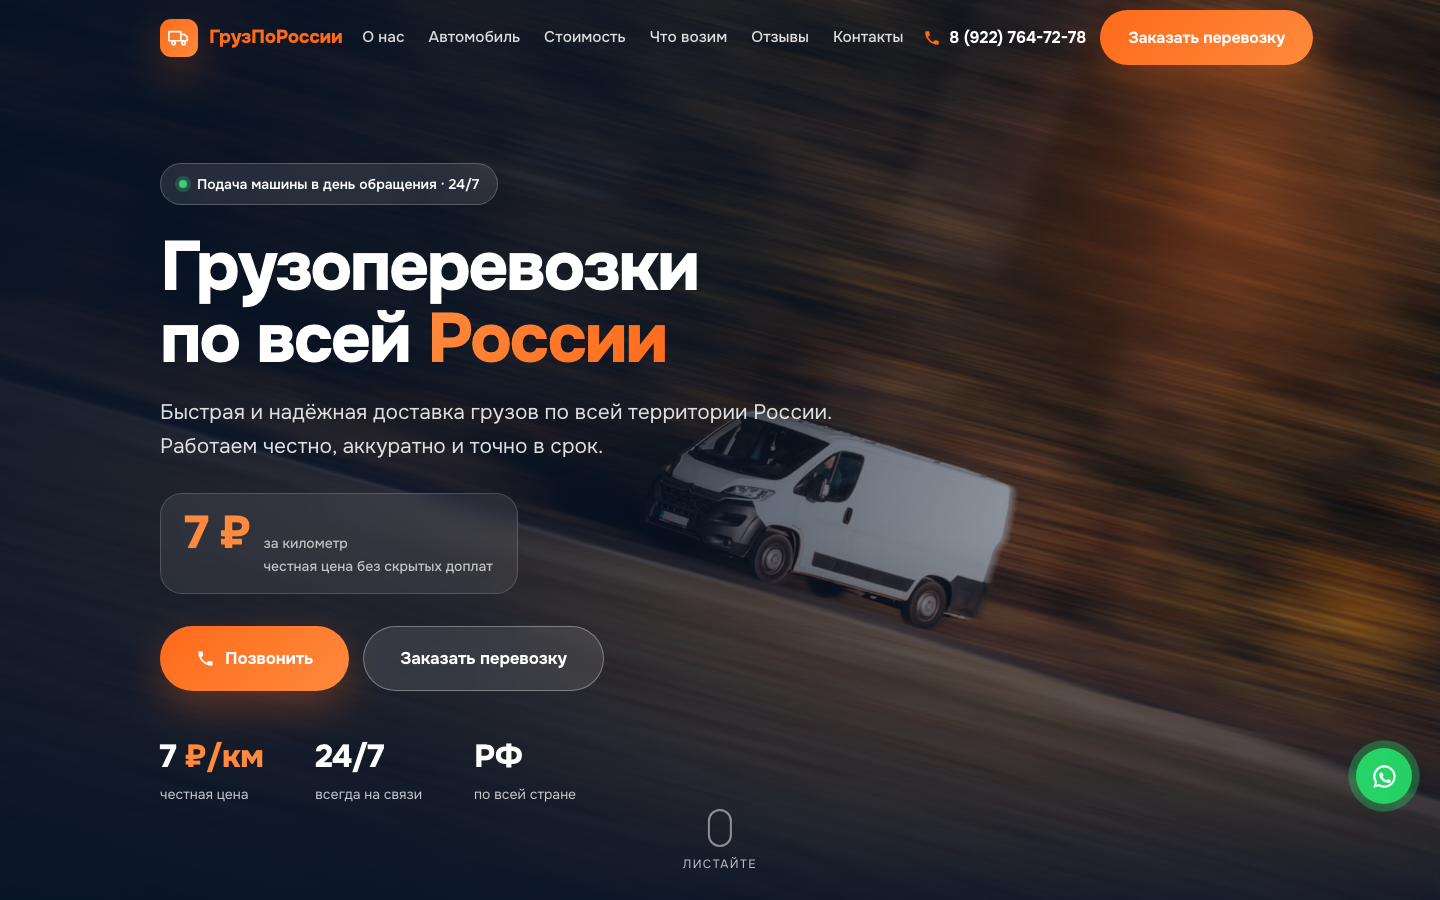
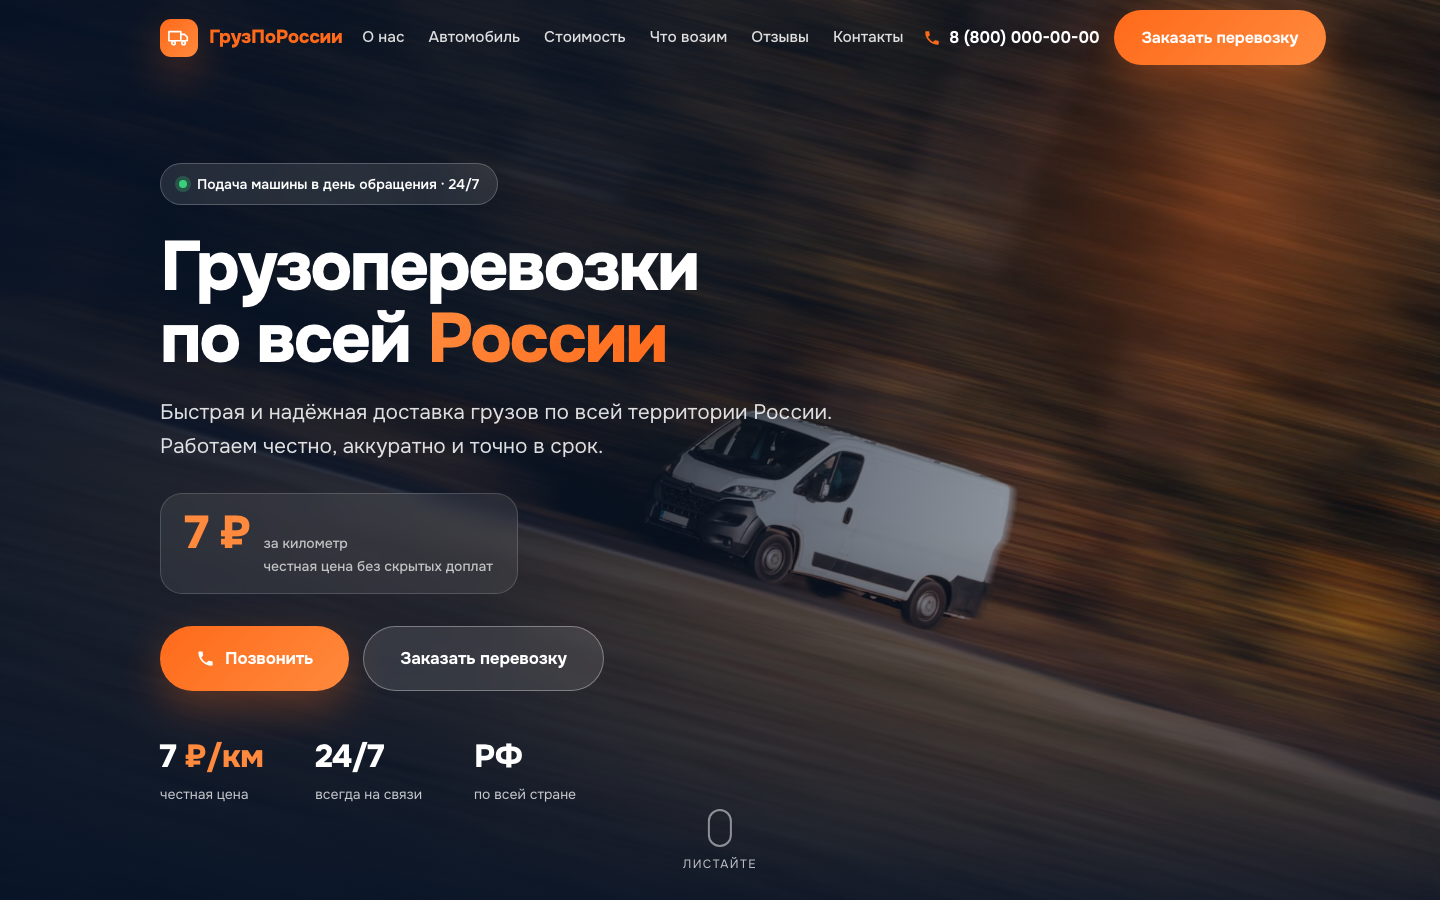
Лендинг #11: анонимизация для портфолио
- Телефон заменён на нейтральный плейсхолдер 8 (800) 000-00-00 (везде + JSON-LD/OG)
- Убраны все переходы в WhatsApp (кнопка в контактах, плавающая кнопка, ссылка в футере) и Telegram
- Убраны имена водителей (Асхаб/Мухаммад) → «Опытный водитель» / «Водитель-дальнобойщик», аватары с иконкой вместо инициалов; имя водителя убрано и из отзыва
- Обновлены обложка и скриншоты

Changed region(s): [[0.6562, 0.0, 0.9375, 0.0622], [0.9375, 0.8089, 1.0, 0.9022]]

diff --git a/landings/11-logistic/index.html b/landings/11-logistic/index.html
@@ -17,12 +17,12 @@
 <meta property="og:locale" content="ru_RU">
 <meta property="og:site_name" content="ГрузПоРоссии">
 <meta property="og:title" content="Грузоперевозки по всей России — от 7 ₽/км">
-<meta property="og:description" content="Быстрая и надёжная доставка грузов по всей территории России. Честная цена от 7 ₽/км, подача в день обращения. Тел. 8 (922) 764-72-78.">
+<meta property="og:description" content="Быстрая и надёжная доставка грузов по всей территории России. Честная цена от 7 ₽/км, подача в день обращения. Тел. 8 (800) 000-00-00.">
 <meta property="og:url" content="https://jonessssenator-art.github.io/portfolio/landings/11-logistic/">
 <meta property="og:image" content="https://jonessssenator-art.github.io/portfolio/screenshots/11-logistic-cover.png">
 <meta name="twitter:card" content="summary_large_image">
 <meta name="twitter:title" content="Грузоперевозки по всей России — от 7 ₽/км">
-<meta name="twitter:description" content="Быстрая и надёжная доставка грузов по всей России. Честная цена от 7 ₽/км. Тел. 8 (922) 764-72-78.">
+<meta name="twitter:description" content="Быстрая и надёжная доставка грузов по всей России. Честная цена от 7 ₽/км. Тел. 8 (800) 000-00-00.">
 <meta name="twitter:image" content="https://jonessssenator-art.github.io/portfolio/screenshots/11-logistic-cover.png">
 
 <link rel="icon" href="favicon/favicon.svg" type="image/svg+xml">
@@ -43,7 +43,7 @@
   "@id":"https://jonessssenator-art.github.io/portfolio/landings/11-logistic/#business",
   "name":"ГрузПоРоссии",
   "description":"Грузоперевозки по всей России от 7 ₽ за километр. Быстрая и надёжная доставка грузов.",
-  "telephone":"+7-922-764-72-78",
+  "telephone":"+7-800-000-00-00",
   "url":"https://jonessssenator-art.github.io/portfolio/landings/11-logistic/",
   "image":"https://jonessssenator-art.github.io/portfolio/screenshots/11-logistic-cover.png",
   "areaServed":{"@type":"Country","name":"Россия"},
@@ -75,9 +75,9 @@
     </nav>
 
     <div class="header__cta">
-      <a href="tel:+79227647278" class="header__phone">
+      <a href="tel:+78000000000" class="header__phone">
         <svg viewBox="0 0 24 24" fill="none"><path d="M6.6 10.8a15 15 0 0 0 6.6 6.6l2.2-2.2a1 1 0 0 1 1-.24 11.4 11.4 0 0 0 3.6.58 1 1 0 0 1 1 1V20a1 1 0 0 1-1 1A17 17 0 0 1 3 4a1 1 0 0 1 1-1h3.5a1 1 0 0 1 1 1c0 1.25.2 2.46.58 3.6a1 1 0 0 1-.25 1z" fill="currentColor"/></svg>
-        8 (922) 764-72-78
+        8 (800) 000-00-00
       </a>
       <a href="#contacts" class="btn btn--primary">Заказать перевозку</a>
       <button class="burger" id="burger" aria-label="Открыть меню" aria-expanded="false" aria-controls="mobileNav">
@@ -102,7 +102,7 @@
   <a href="#drivers" class="m-link">Водители</a>
   <a href="#reviews" class="m-link">Отзывы</a>
   <a href="#contacts" class="m-link">Контакты</a>
-  <a href="tel:+79227647278" class="btn btn--primary btn--block">Позвонить: 8 (922) 764-72-78</a>
+  <a href="tel:+78000000000" class="btn btn--primary btn--block">Позвонить: 8 (800) 000-00-00</a>
 </nav>
 
 <main id="top">
@@ -125,7 +125,7 @@
       </div>
 
       <div class="hero__actions">
-        <a href="tel:+79227647278" class="btn btn--primary btn--lg">
+        <a href="tel:+78000000000" class="btn btn--primary btn--lg">
           <svg viewBox="0 0 24 24" fill="none"><path d="M6.6 10.8a15 15 0 0 0 6.6 6.6l2.2-2.2a1 1 0 0 1 1-.24 11.4 11.4 0 0 0 3.6.58 1 1 0 0 1 1 1V20a1 1 0 0 1-1 1A17 17 0 0 1 3 4a1 1 0 0 1 1-1h3.5a1 1 0 0 1 1 1c0 1.25.2 2.46.58 3.6a1 1 0 0 1-.25 1z" fill="currentColor"/></svg>
           Позвонить
         </a>
@@ -427,12 +427,11 @@
 
     <div class="drivers-grid">
       <div class="driver reveal">
-        <div class="driver__ava">А
+        <div class="driver__ava"><svg class="ava-ic" viewBox="0 0 24 24" fill="none" aria-hidden="true"><circle cx="12" cy="9" r="3.4" stroke="currentColor" stroke-width="1.8"/><path d="M5.5 19.5a6.5 6.5 0 0 1 13 0" stroke="currentColor" stroke-width="1.8" stroke-linecap="round"/></svg>
           <span class="wheel" aria-hidden="true"><svg viewBox="0 0 24 24" fill="none"><circle cx="12" cy="12" r="9" stroke="currentColor" stroke-width="2"/><circle cx="12" cy="12" r="2.4" fill="currentColor"/><path d="M12 3v6M21 12h-6M5 18l4.5-4.5" stroke="currentColor" stroke-width="1.6"/></svg></span>
         </div>
         <div>
-          <div class="driver__name">Асхаб</div>
-          <span class="driver__role">Опытный водитель</span>
+          <div class="driver__name">Опытный водитель</div>
           <div class="driver__traits">
             <span><svg viewBox="0 0 24 24" fill="none"><path d="m5 13 4 4L19 7" stroke="currentColor" stroke-width="2.4" stroke-linecap="round" stroke-linejoin="round"/></svg> Ответственный</span>
             <span><svg viewBox="0 0 24 24" fill="none"><path d="m5 13 4 4L19 7" stroke="currentColor" stroke-width="2.4" stroke-linecap="round" stroke-linejoin="round"/></svg> Пунктуальный</span>
@@ -442,12 +441,11 @@
       </div>
 
       <div class="driver reveal d1">
-        <div class="driver__ava">М
+        <div class="driver__ava"><svg class="ava-ic" viewBox="0 0 24 24" fill="none" aria-hidden="true"><circle cx="12" cy="9" r="3.4" stroke="currentColor" stroke-width="1.8"/><path d="M5.5 19.5a6.5 6.5 0 0 1 13 0" stroke="currentColor" stroke-width="1.8" stroke-linecap="round"/></svg>
           <span class="wheel" aria-hidden="true"><svg viewBox="0 0 24 24" fill="none"><circle cx="12" cy="12" r="9" stroke="currentColor" stroke-width="2"/><circle cx="12" cy="12" r="2.4" fill="currentColor"/><path d="M12 3v6M21 12h-6M5 18l4.5-4.5" stroke="currentColor" stroke-width="1.6"/></svg></span>
         </div>
         <div>
-          <div class="driver__name">Мухаммад</div>
-          <span class="driver__role">Междугородние перевозки</span>
+          <div class="driver__name">Водитель-дальнобойщик</div>
           <div class="driver__traits">
             <span><svg viewBox="0 0 24 24" fill="none"><path d="m5 13 4 4L19 7" stroke="currentColor" stroke-width="2.4" stroke-linecap="round" stroke-linejoin="round"/></svg> Надёжность</span>
             <span><svg viewBox="0 0 24 24" fill="none"><path d="m5 13 4 4L19 7" stroke="currentColor" stroke-width="2.4" stroke-linecap="round" stroke-linejoin="round"/></svg> Безопасность</span>
@@ -534,7 +532,7 @@
           <svg viewBox="0 0 24 24" fill="currentColor"><path d="m12 2 3 6.3 6.9.9-5 4.8 1.2 6.8L12 17.8 5.9 20.8 7.1 14 2.1 9.2 9 8.3z"/></svg>
           <svg viewBox="0 0 24 24" fill="currentColor"><path d="m12 2 3 6.3 6.9.9-5 4.8 1.2 6.8L12 17.8 5.9 20.8 7.1 14 2.1 9.2 9 8.3z"/></svg>
         </div>
-        <blockquote class="review__text">Регулярно заказываю доставку овощей и фруктов в магазин. Привозят строго в срок, груз всегда в идеальном состоянии. Водитель Асхаб — большой молодец.</blockquote>
+        <blockquote class="review__text">Регулярно заказываю доставку овощей и фруктов в магазин. Привозят строго в срок, груз всегда в идеальном состоянии. Наш водитель — большой молодец.</blockquote>
         <figcaption class="review__author"><span class="review__ava">Р</span><span><span class="nm">Руслан</span><br><span class="mt">поставки продуктов</span></span></figcaption>
       </figure>
 
@@ -561,26 +559,18 @@
       <div class="contact-info reveal">
         <span class="eyebrow">Контакты</span>
         <h2 class="h-section">Закажите перевозку прямо сейчас</h2>
-        <p class="lead">Позвоните или напишите — рассчитаем стоимость и подадим машину в удобное время.</p>
+        <p class="lead">Позвоните или оставьте заявку — рассчитаем стоимость и подадим машину в удобное время.</p>
 
         <div class="phone-big">
           <span class="ic" aria-hidden="true"><svg viewBox="0 0 24 24" fill="none"><path d="M6.6 10.8a15 15 0 0 0 6.6 6.6l2.2-2.2a1 1 0 0 1 1-.24 11.4 11.4 0 0 0 3.6.58 1 1 0 0 1 1 1V20a1 1 0 0 1-1 1A17 17 0 0 1 3 4a1 1 0 0 1 1-1h3.5a1 1 0 0 1 1 1c0 1.25.2 2.46.58 3.6a1 1 0 0 1-.25 1z" fill="currentColor"/></svg></span>
-          <a href="tel:+79227647278">8 (922) 764-72-78</a>
+          <a href="tel:+78000000000">8 (800) 000-00-00</a>
         </div>
         <p class="phone-cap">Работаем ежедневно, принимаем заявки 24/7</p>
 
         <div class="contact-channels">
-          <a href="tel:+79227647278" class="chan chan--call">
+          <a href="tel:+78000000000" class="chan chan--call">
             <svg viewBox="0 0 24 24" fill="none"><path d="M6.6 10.8a15 15 0 0 0 6.6 6.6l2.2-2.2a1 1 0 0 1 1-.24 11.4 11.4 0 0 0 3.6.58 1 1 0 0 1 1 1V20a1 1 0 0 1-1 1A17 17 0 0 1 3 4a1 1 0 0 1 1-1h3.5a1 1 0 0 1 1 1c0 1.25.2 2.46.58 3.6a1 1 0 0 1-.25 1z" fill="currentColor"/></svg>
             Позвонить
-          </a>
-          <a href="https://wa.me/79227647278?text=Здравствуйте!%20Хочу%20заказать%20грузоперевозку" class="chan chan--wa" target="_blank" rel="noopener">
-            <svg viewBox="0 0 24 24" fill="currentColor"><path d="M12 2a10 10 0 0 0-8.5 15.3L2 22l4.8-1.4A10 10 0 1 0 12 2zm0 2a8 8 0 1 1-4.2 14.8l-.3-.2-2.8.8.8-2.7-.2-.3A8 8 0 0 1 12 4zm-3 4.4c-.2 0-.5.1-.7.3-.3.3-.9.9-.9 2.1s.9 2.4 1 2.6c.1.2 1.7 2.8 4.3 3.8 2.1.8 2.6.7 3 .6.5-.1 1.5-.6 1.7-1.2.2-.6.2-1.1.1-1.2 0-.1-.2-.2-.5-.3l-1.6-.8c-.2-.1-.4-.1-.5.1l-.7.9c-.1.2-.3.2-.5.1-.3-.1-1.1-.4-2-1.3-.7-.6-1.2-1.4-1.3-1.6-.1-.2 0-.4.1-.5l.4-.5c.1-.1.2-.3.2-.4.1-.2 0-.3 0-.4l-.7-1.7c-.2-.5-.4-.4-.5-.4z"/></svg>
-            WhatsApp
-          </a>
-          <a href="tg://resolve?phone=79227647278" class="chan chan--tg" target="_blank" rel="noopener">
-            <svg viewBox="0 0 24 24" fill="currentColor"><path d="M21.9 4.3 18.6 20c-.2 1-.9 1.3-1.8.8l-4.8-3.6-2.3 2.2c-.3.3-.5.5-1 .5l.3-4.9 8.9-8c.4-.3-.1-.5-.6-.2L6.3 13.6l-4.7-1.5c-1-.3-1-1 .2-1.5L20.6 3c.9-.3 1.6.2 1.3 1.3z"/></svg>
-            Telegram
           </a>
         </div>
 
@@ -646,9 +636,9 @@
         <h3>Нужна перевозка? Звоните прямо сейчас</h3>
         <p>Рассчитаем стоимость и подадим машину в удобное время — по всей России.</p>
       </div>
-      <a href="tel:+79227647278" class="btn btn--primary btn--lg">
+      <a href="tel:+78000000000" class="btn btn--primary btn--lg">
         <svg viewBox="0 0 24 24" fill="none" aria-hidden="true"><path d="M6.6 10.8a15 15 0 0 0 6.6 6.6l2.2-2.2a1 1 0 0 1 1-.24 11.4 11.4 0 0 0 3.6.58 1 1 0 0 1 1 1V20a1 1 0 0 1-1 1A17 17 0 0 1 3 4a1 1 0 0 1 1-1h3.5a1 1 0 0 1 1 1c0 1.25.2 2.46.58 3.6a1 1 0 0 1-.25 1z" fill="currentColor"/></svg>
-        8 (922) 764-72-78
+        8 (800) 000-00-00
       </a>
     </div>
     <div class="footer__grid">
@@ -676,8 +666,7 @@
       <div>
         <h4>Контакты</h4>
         <div class="footer__contact">
-          <a href="tel:+79227647278" class="big"><svg viewBox="0 0 24 24" fill="none"><path d="M6.6 10.8a15 15 0 0 0 6.6 6.6l2.2-2.2a1 1 0 0 1 1-.24 11.4 11.4 0 0 0 3.6.58 1 1 0 0 1 1 1V20a1 1 0 0 1-1 1A17 17 0 0 1 3 4a1 1 0 0 1 1-1h3.5a1 1 0 0 1 1 1c0 1.25.2 2.46.58 3.6a1 1 0 0 1-.25 1z" fill="currentColor"/></svg> 8 (922) 764-72-78</a>
-          <a href="https://wa.me/79227647278" target="_blank" rel="noopener"><svg viewBox="0 0 24 24" fill="currentColor"><path d="M12 2a10 10 0 0 0-8.5 15.3L2 22l4.8-1.4A10 10 0 1 0 12 2zm0 2a8 8 0 1 1-4.2 14.8l-.3-.2-2.8.8.8-2.7-.2-.3A8 8 0 0 1 12 4z"/></svg> Написать в WhatsApp</a>
+          <a href="tel:+78000000000" class="big"><svg viewBox="0 0 24 24" fill="none"><path d="M6.6 10.8a15 15 0 0 0 6.6 6.6l2.2-2.2a1 1 0 0 1 1-.24 11.4 11.4 0 0 0 3.6.58 1 1 0 0 1 1 1V20a1 1 0 0 1-1 1A17 17 0 0 1 3 4a1 1 0 0 1 1-1h3.5a1 1 0 0 1 1 1c0 1.25.2 2.46.58 3.6a1 1 0 0 1-.25 1z" fill="currentColor"/></svg> 8 (800) 000-00-00</a>
           <span><svg viewBox="0 0 24 24" fill="none"><circle cx="12" cy="12" r="9" stroke="currentColor" stroke-width="1.8"/><path d="M12 7v5l3 2" stroke="currentColor" stroke-width="2" stroke-linecap="round" stroke-linejoin="round"/></svg> Работаем ежедневно, 24/7</span>
         </div>
       </div>
@@ -692,9 +681,6 @@
 
 <!-- ============ ПЛАВАЮЩИЕ КНОПКИ ============ -->
 <div class="fab-stack">
-  <a href="https://wa.me/79227647278?text=Здравствуйте!%20Хочу%20заказать%20грузоперевозку" class="fab fab--wa" target="_blank" rel="noopener" aria-label="Написать в WhatsApp">
-    <svg viewBox="0 0 24 24" fill="currentColor"><path d="M12 2a10 10 0 0 0-8.5 15.3L2 22l4.8-1.4A10 10 0 1 0 12 2zm0 2a8 8 0 1 1-4.2 14.8l-.3-.2-2.8.8.8-2.7-.2-.3A8 8 0 0 1 12 4zm-3 4.4c-.2 0-.5.1-.7.3-.3.3-.9.9-.9 2.1s.9 2.4 1 2.6c.1.2 1.7 2.8 4.3 3.8 2.1.8 2.6.7 3 .6.5-.1 1.5-.6 1.7-1.2.2-.6.2-1.1.1-1.2 0-.1-.2-.2-.5-.3l-1.6-.8c-.2-.1-.4-.1-.5.1l-.7.9c-.1.2-.3.2-.5.1-.3-.1-1.1-.4-2-1.3-.7-.6-1.2-1.4-1.3-1.6-.1-.2 0-.4.1-.5l.4-.5c.1-.1.2-.3.2-.4.1-.2 0-.3 0-.4l-.7-1.7c-.2-.5-.4-.4-.5-.4z"/></svg>
-  </a>
   <button class="fab fab--top" id="toTop" aria-label="Наверх">
     <svg viewBox="0 0 24 24" fill="none"><path d="M12 19V5m-7 7 7-7 7 7" stroke="currentColor" stroke-width="2.2" stroke-linecap="round" stroke-linejoin="round"/></svg>
   </button>
@@ -702,7 +688,7 @@
 
 <!-- мобильная панель звонка -->
 <div class="call-bar">
-  <a href="tel:+79227647278" class="btn btn--call-bar">
+  <a href="tel:+78000000000" class="btn btn--call-bar">
     <svg viewBox="0 0 24 24" fill="none"><path d="M6.6 10.8a15 15 0 0 0 6.6 6.6l2.2-2.2a1 1 0 0 1 1-.24 11.4 11.4 0 0 0 3.6.58 1 1 0 0 1 1 1V20a1 1 0 0 1-1 1A17 17 0 0 1 3 4a1 1 0 0 1 1-1h3.5a1 1 0 0 1 1 1c0 1.25.2 2.46.58 3.6a1 1 0 0 1-.25 1z" fill="currentColor"/></svg>
     Позвонить
   </a>

diff --git a/landings/11-logistic/style.css b/landings/11-logistic/style.css
@@ -385,6 +385,7 @@ input,textarea,select{font-family:inherit;font-size:inherit}
   font-size:32px;font-weight:800;color:#fff;letter-spacing:-.02em;position:relative;
   background:linear-gradient(140deg,var(--navy),var(--navy-soft));box-shadow:var(--sh-md);
 }
+.driver__ava .ava-ic{width:42px;height:42px;color:#fff}
 .driver__ava .wheel{position:absolute;right:-4px;bottom:-4px;width:28px;height:28px;border-radius:50%;background:var(--orange);border:3px solid var(--bg);display:grid;place-items:center;z-index:2}
 .driver__ava .wheel svg{width:14px;height:14px;color:#fff}
 .driver__name{font-size:21px;font-weight:800;letter-spacing:-.02em}